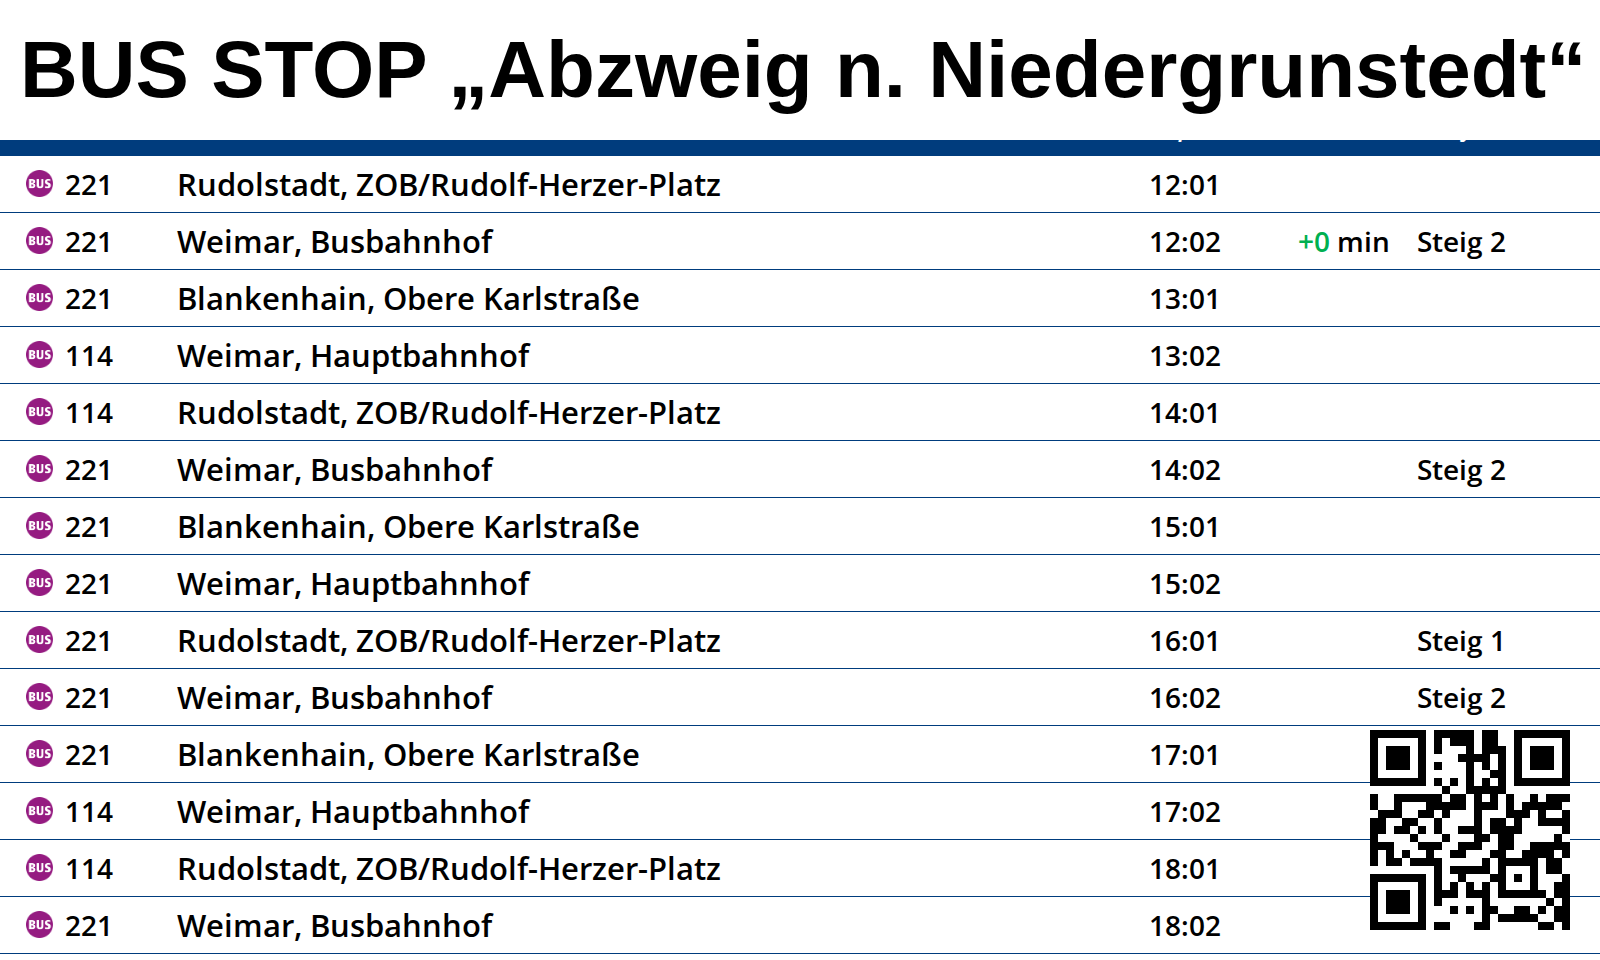
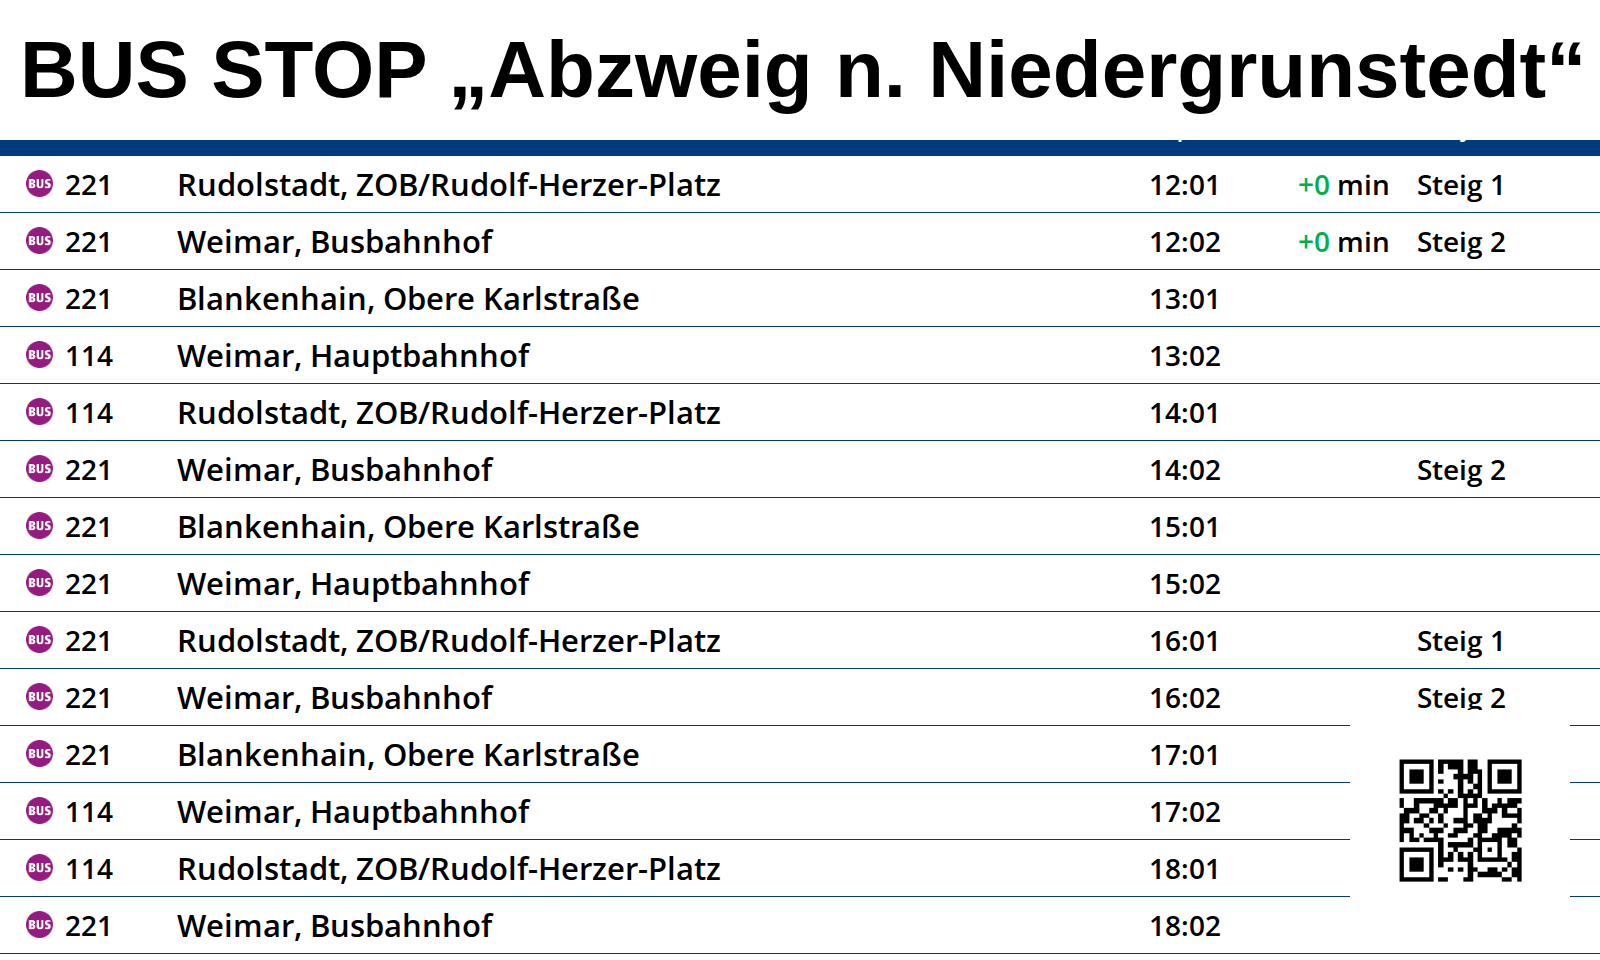
deploy: 999e58055db2eefea38f53980cfc55aed289b506

Changed region(s): [[0.8438, 0.75, 1.0, 0.9688], [0.8125, 0.1875, 0.9375, 0.2188]]

diff --git a/capture.js b/capture.js
@@ -9,10 +9,10 @@ const HEADER = {
 
   text: 'BUS STOP „Abzweig n. Niedergrunstedt“',
 
-  height: 140,              // Header height in px
-  background: '#FFFFFF',    // Header background
-  textColor: '#000000',     // Header text color
-  fontSize: 80              // Header text size in px
+  height: 140,
+  background: '#FFFFFF',
+  textColor: '#000000',
+  fontSize: 80
 };
 
 
@@ -25,17 +25,19 @@ const QR = {
   // Website encoded in the QR code
   contentUrl: 'https://CONTENTURL.NET',
 
-  // QR code size in px
-  // Width and height are ALWAYS the same
+  // QR CODE SIZE
+  // This is the actual QR code size in px
   size: 200,
 
-  // QR code color
+  // QR CODE COLORS
   color: '#000000',
-
-  // QR code background color
   background: '#FFFFFF',
 
-  // Position from screen edges
+  // BORDER / QUIET ZONE
+  // Extra space around the QR code in px
+  border: 10,
+
+  // POSITION
   right: 30,
   bottom: 30
 };
@@ -86,55 +88,31 @@ const QR = {
 
       bar.innerText = header.text;
 
-
-      // Header styling
       Object.assign(bar.style, {
-
         position: 'fixed',
-
         top: '0',
         left: '0',
-
         width: '100%',
-
         height: `${header.height}px`,
-
         background: header.background,
-
         color: header.textColor,
-
         fontSize: `${header.fontSize}px`,
-
         fontFamily: 'Arial, Helvetica, sans-serif',
-
         fontWeight: 'bold',
-
         display: 'flex',
-
         alignItems: 'center',
-
         justifyContent: 'flex-start',
-
         paddingLeft: '20px',
-
         boxSizing: 'border-box',
-
         zIndex: '999999',
-
         lineHeight: '1',
-
         overflow: 'hidden',
-
         whiteSpace: 'nowrap'
       });
 
-
       document.body.appendChild(bar);
 
-
-      // Push HAFAS content down
       document.body.style.paddingTop = `${header.height}px`;
-
       document.body.style.boxSizing = 'border-box';
 
     }, HEADER);
@@ -146,24 +124,24 @@ const QR = {
   // ==============================
   if (QR.enabled) {
 
+    // Generate QR including the requested border
     const qrDataUrl = await QRCode.toDataURL(
       QR.contentUrl,
       {
         width: QR.size,
-
-        margin: 0,
-
+        margin: QR.border,
         color: {
           dark: QR.color,
           light: QR.background
         },
-
         errorCorrectionLevel: 'M'
       }
     );
 
 
-    // Add QR to page
+    // ==============================
+    // ADD QR TO PAGE
+    // ==============================
     await page.evaluate((qr) => {
 
       const qrImage = document.createElement('img');
@@ -172,42 +150,33 @@ const QR = {
 
       qrImage.src = qr.dataUrl;
 
-
-      // QR styling
       Object.assign(qrImage.style, {
-
         position: 'fixed',
 
-        width: `${qr.size}px`,
-
-        height: `${qr.size}px`,
+        // Total displayed size includes the QR + border
+        width: `${qr.totalSize}px`,
+        height: `${qr.totalSize}px`,
 
         right: `${qr.right}px`,
-
         bottom: `${qr.bottom}px`,
 
         display: 'block',
-
         margin: '0',
-
         padding: '0',
 
         zIndex: '999999'
       });
 
-
       document.body.appendChild(qrImage);
 
     }, {
-
       dataUrl: qrDataUrl,
 
-      size: QR.size,
+      // QR size + 2 × border
+      totalSize: QR.size + (QR.border * 2),
 
       right: QR.right,
-
       bottom: QR.bottom
-
     });
   }
 
